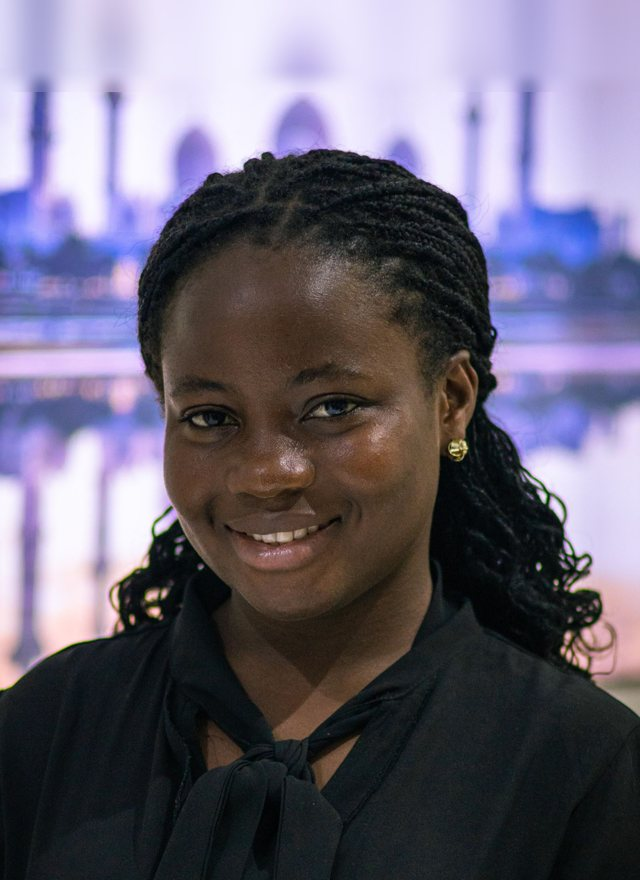
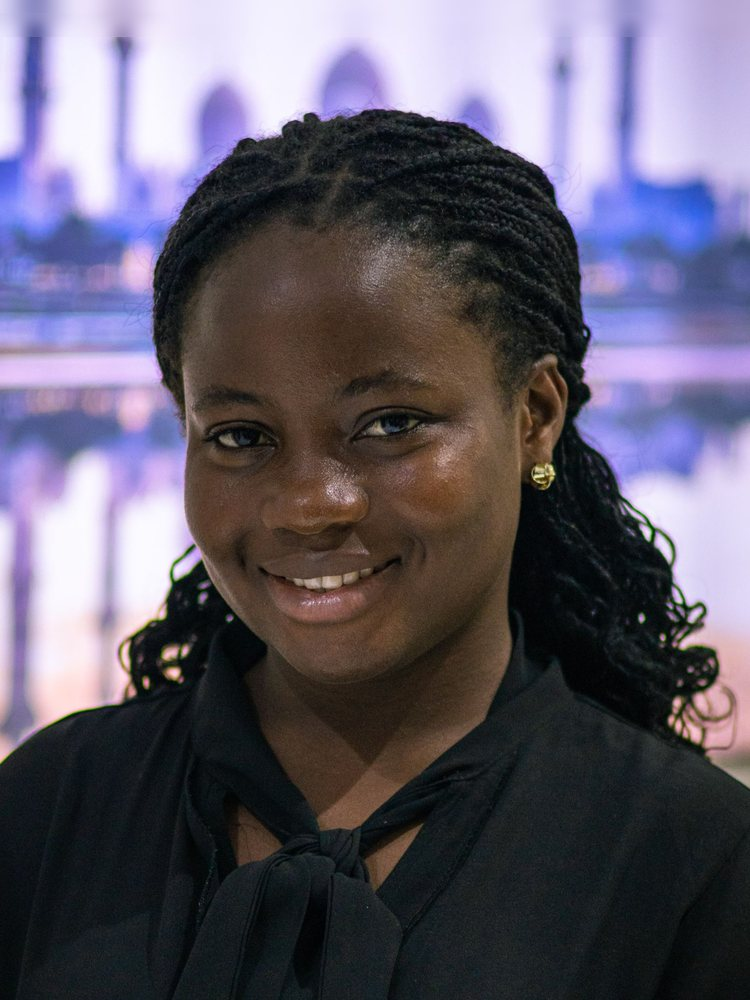
About: add Glory's photo; align every portrait (same head height and size)
Claude-Session: https://claude.ai/code/session_01MAP6UJuRMFuUemUXkRbxM1

diff --git a/about.html b/about.html
@@ -59,7 +59,7 @@
         <div class="tilt tilt--orange">
           <a class="card member" href="https://www.linkedin.com/in/glory-appoh/" target="_blank" rel="noopener" aria-label="Glory Appoh, LinkedIn profile">
             <span class="member__placeholder" aria-hidden="true">GA</span>
-            <!-- <img class="card__img" src="/assets/img/team/PHOTO.jpg" alt="Glory Appoh"> -->
+            <img class="card__img member__img" src="/assets/img/team/glory-appoh.jpg" alt="Glory Appoh" loading="lazy">
             <span class="member__info">
               <span class="member__name">Glory Appoh</span>
               <span class="member__role">Co-founder &amp; Director</span>

diff --git a/assets/css/style.css b/assets/css/style.css
@@ -634,4 +634,4 @@ body.no-scroll { overflow: hidden; }
 
 /* Team portraits: original photos, framed from the top so there is space above the head */
 .member:has(.member__img) .member__placeholder { display: none; }
-.member .member__img { object-fit: cover; object-position: 50% 24%; }
+.member .member__img { object-fit: cover; object-position: 50% 0%; }
